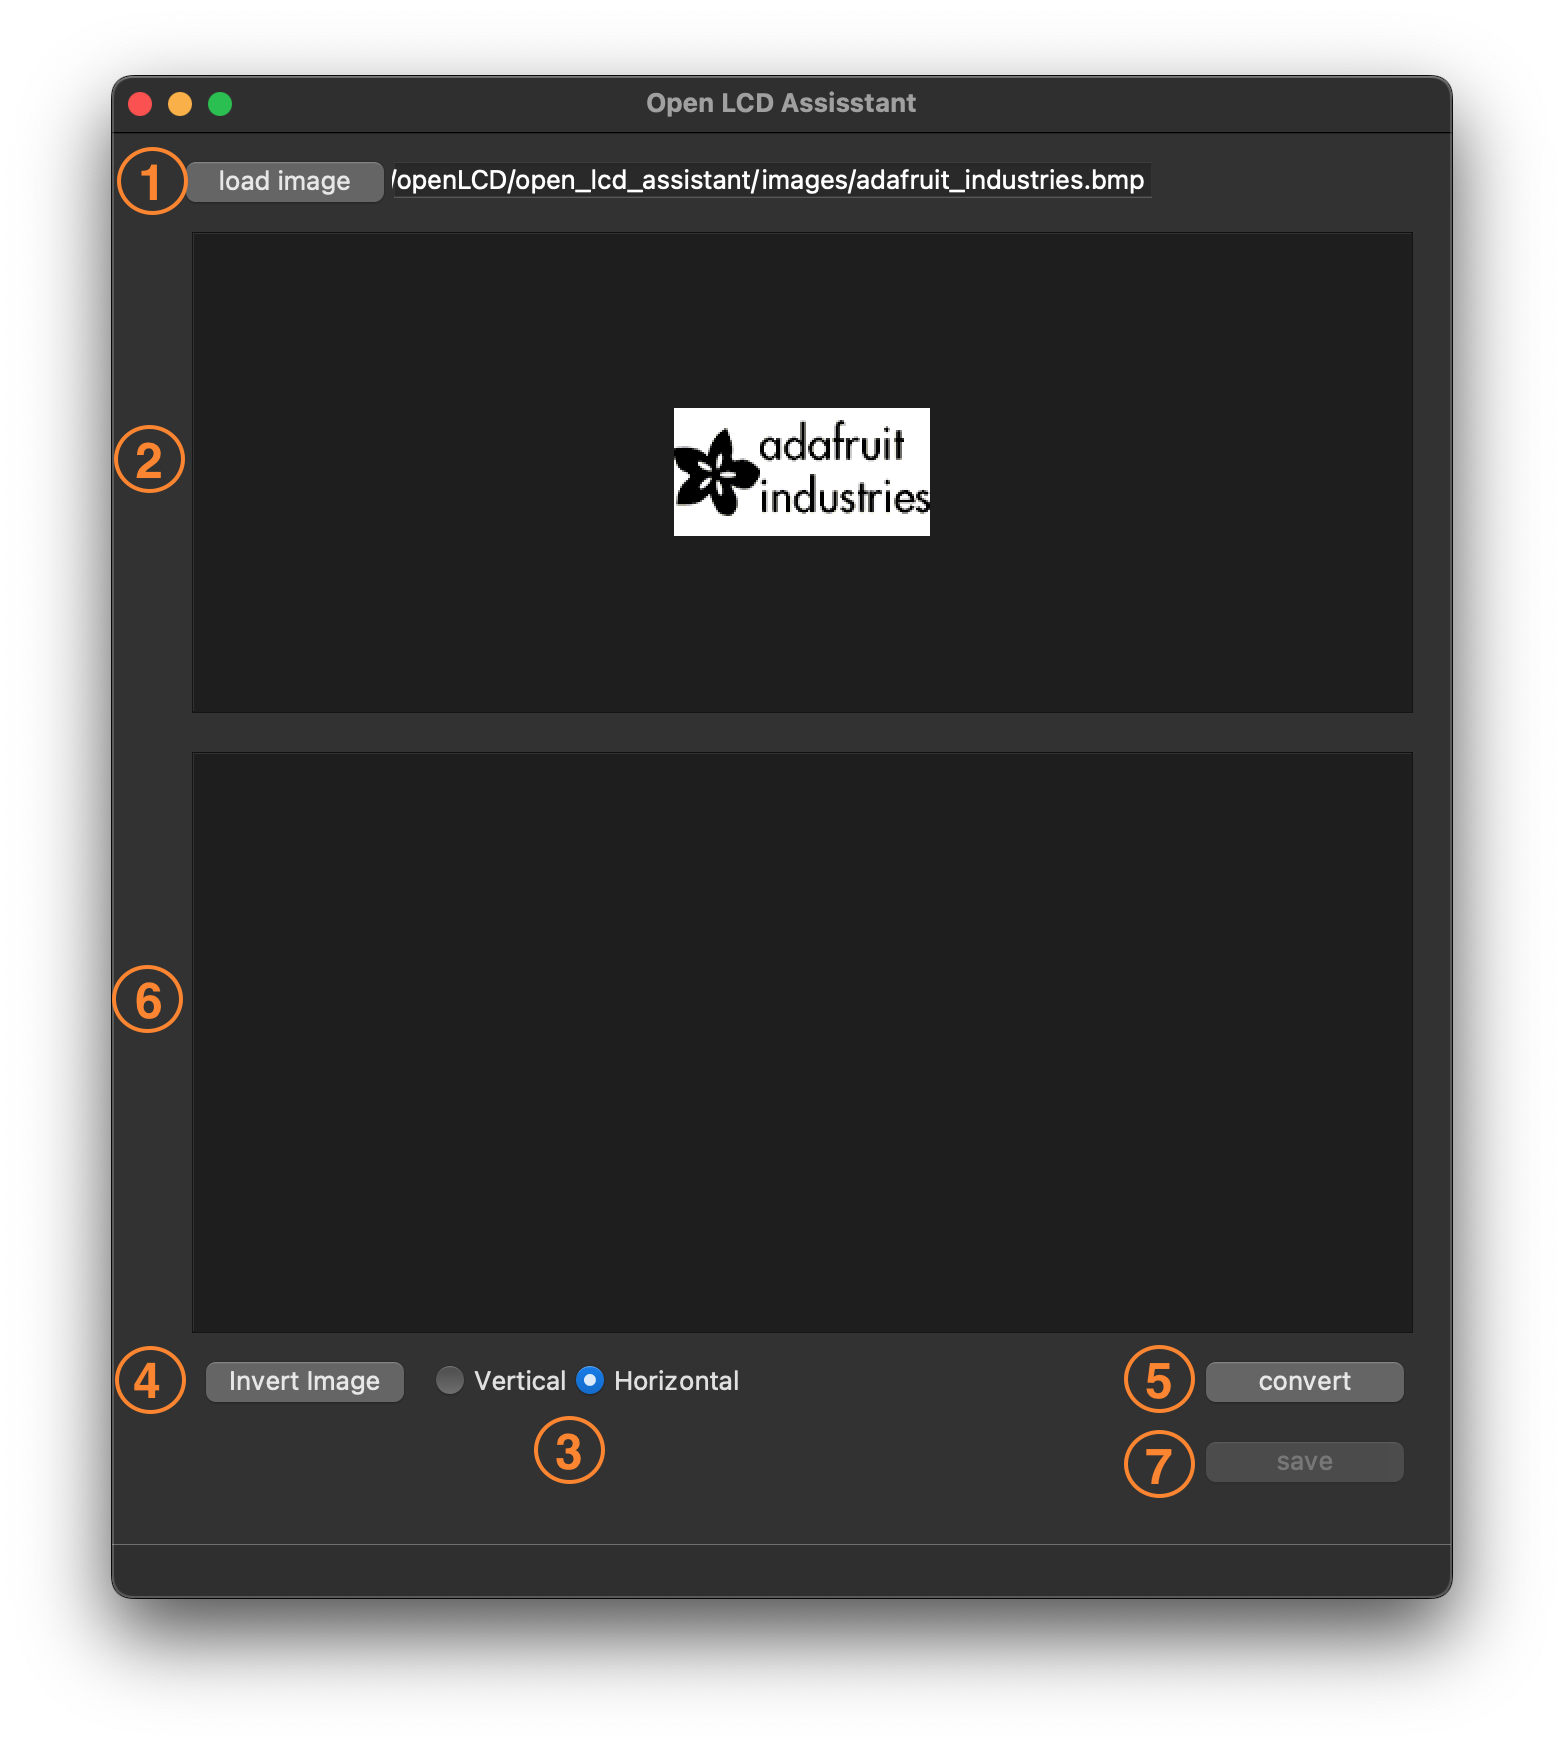
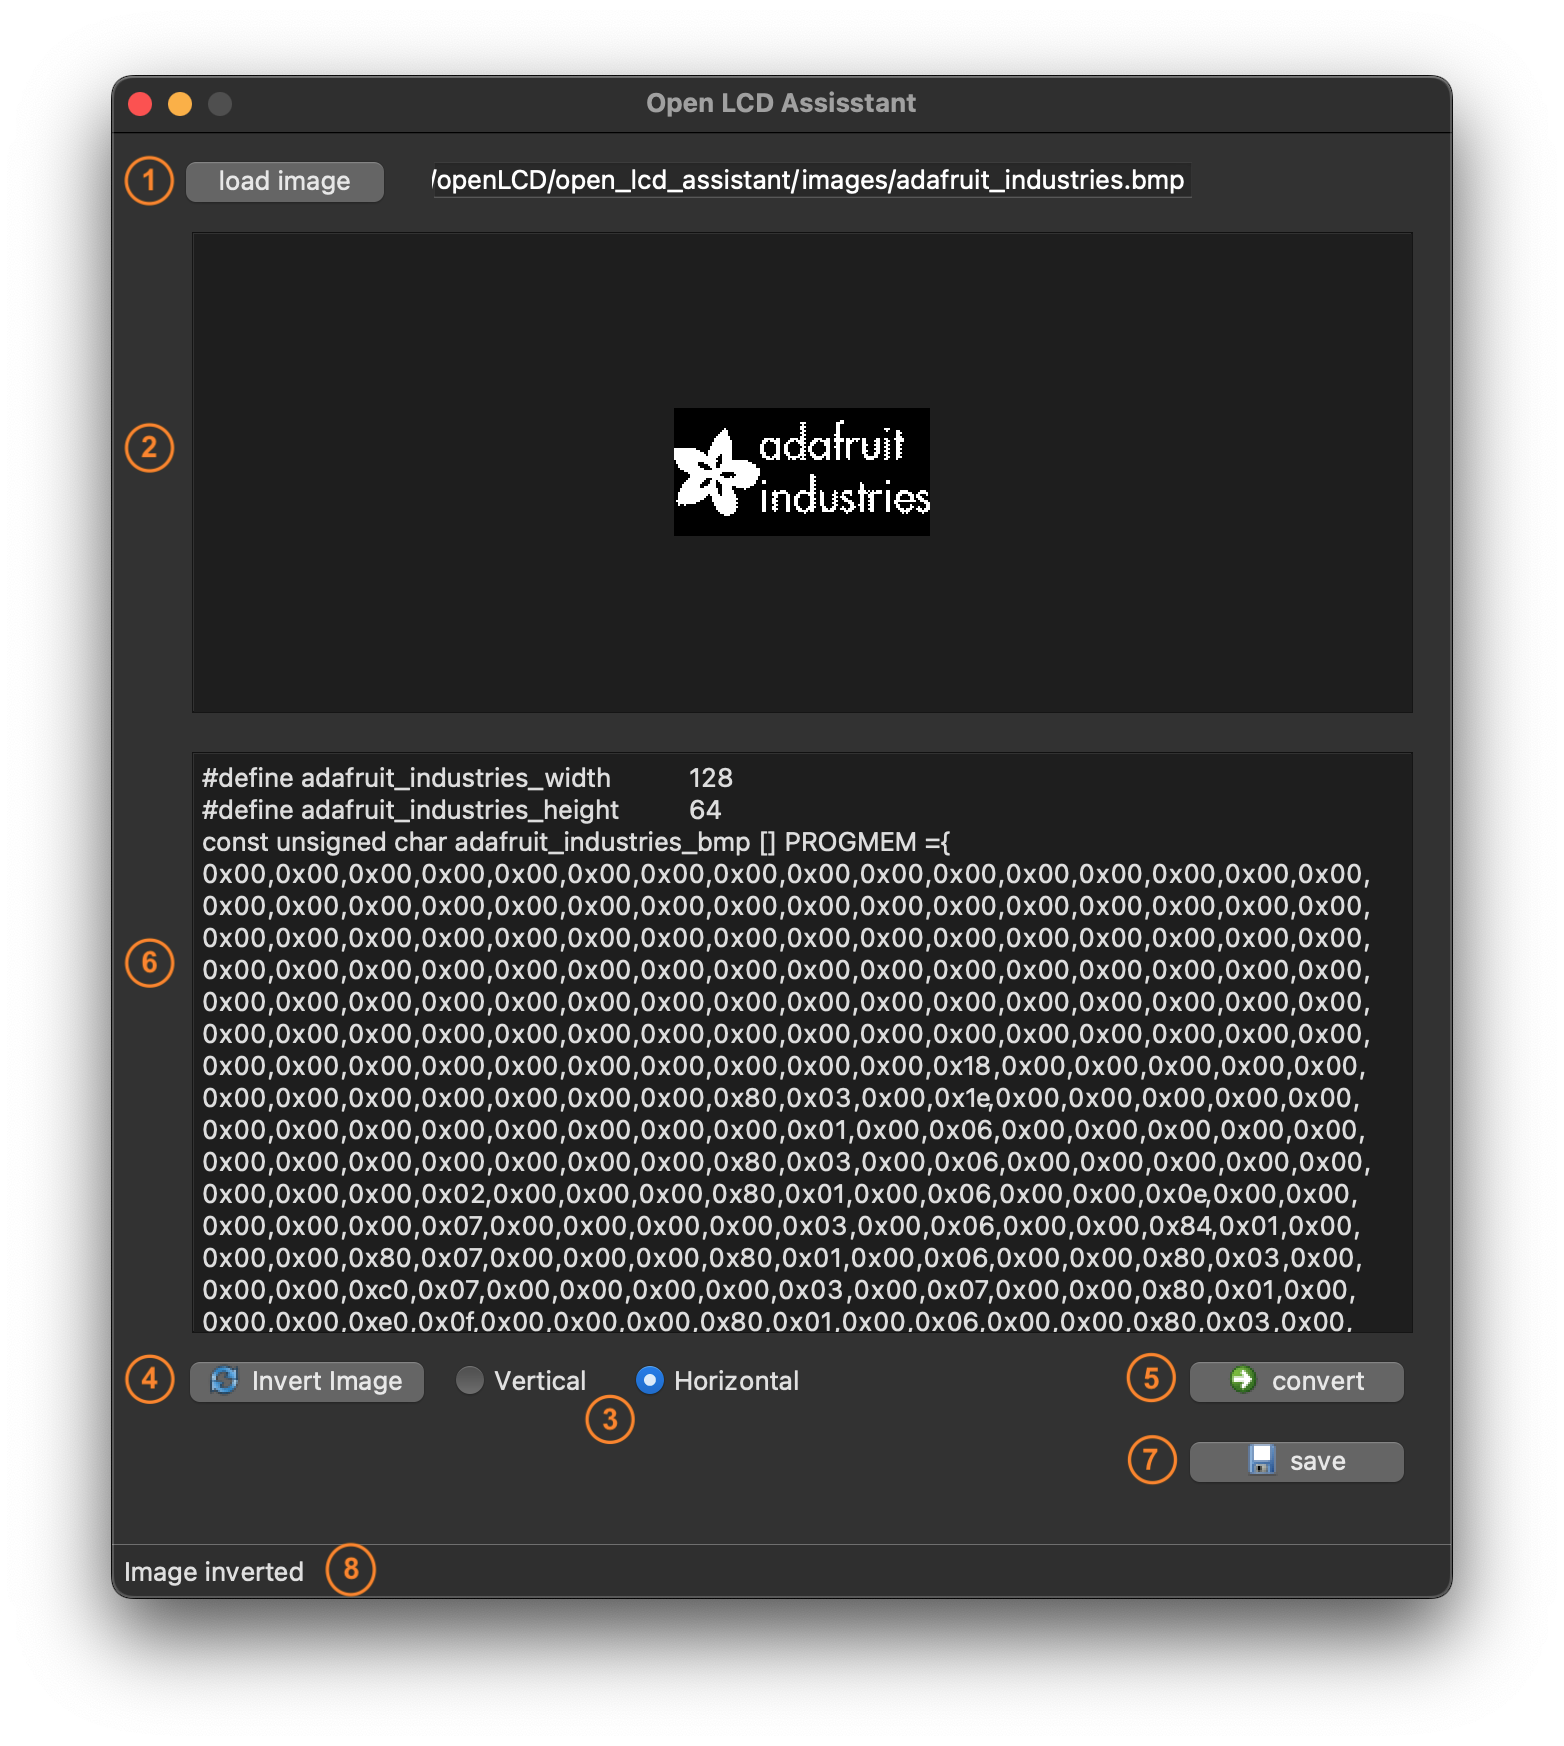
Change GUI Image

diff --git a/main.py b/main.py
@@ -65,7 +65,6 @@ class MyApp(QtWidgets.QMainWindow, Ui_MainWindow):
         self.save_button.setIcon(icon)
 
         
-
     def load_image(self):
         # Get the image path
         self.__image_path, _ = QtWidgets.QFileDialog.getOpenFileName(self, 'Single File', QtCore.QDir.rootPath() , 'Image Files(*.png *.jpg *.bmp)')
@@ -94,7 +93,6 @@ class MyApp(QtWidgets.QMainWindow, Ui_MainWindow):
         item = QtWidgets.QGraphicsPixmapItem(pixmap)
         scene.addItem(item)
         self.image_view.setScene(scene)
-
 
 
     def convert_image(self):

diff --git a/README.md b/README.md
@@ -24,13 +24,15 @@ I have been looking for a tool to convert bitmap images into byte arrays that ca
 ## Usage
 ***
 
-- `(1)` Load the BMP image
-- `(2)` Preview of the loaded image
+- `(1)` Load Image Files (*.png *.jpg *.bmp)
+- `(2)` Preview of the loaded image (in Monochrome Bitmap Format)
 - `(3)` Choose the conversion method
 - `(4)` Invert the image colors
 - `(5)` Convert the image into bitmap array
 - `(6)` The generated byte array (can be copied to your arduino code)
 - `(7)` To save the byte array to .txt file
+- `(8)` Message to indicate to the user that the previewed image is inverted
+
 
 ![Image text](./images/GUI_Screenshot.png)
 
